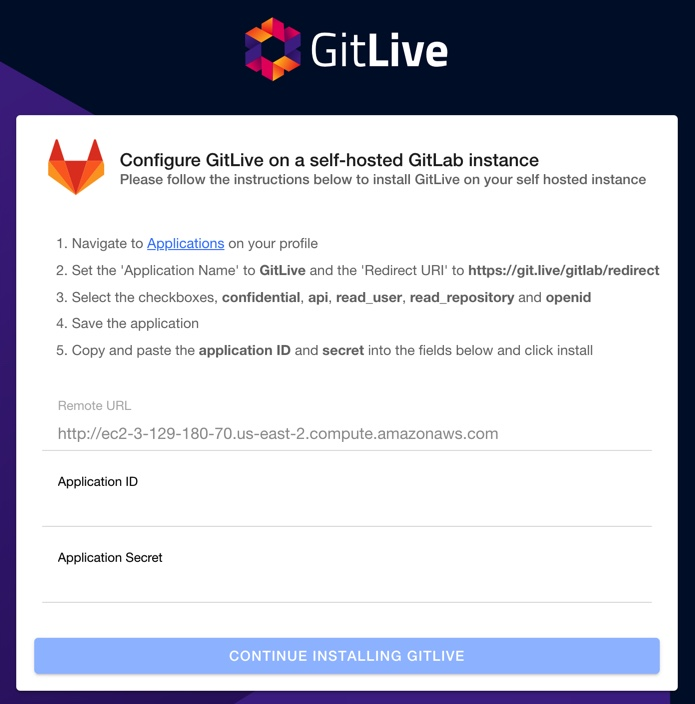
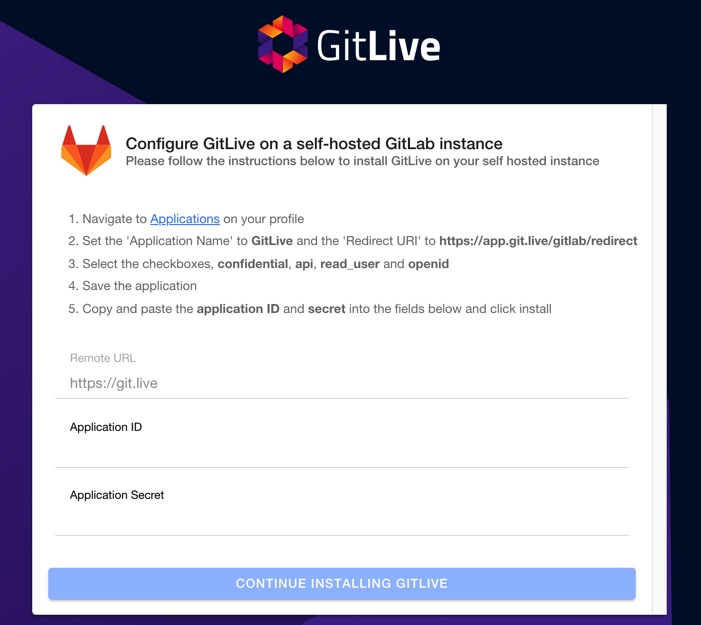
New self hosted adding custom urls section

diff --git a/_sections/self-hosted-admin-android-studio.md b/_sections/self-hosted-admin-android-studio.md
@@ -50,6 +50,13 @@ Finally, you will see a screen showing you that GitLive has been installed succe
 
 ![Successful Self Hosted Installation](/uploads/gsh-successful.jpg "Successful Self Hosted Installation"){:class="screenshot"}
 
+### Adding a Custom URL
+You can also add a custom URL that is accessible from the internet. If your remote URL is not accessible from the internet via HTTP or HTTPS, this custom URL will replace the remote URL with another one, so that our server can access the API.
+
+There will be a prompt in the footer of the GitLive pane that says "Specify self-hosted GitLab instance URL", this will take you to a webpage where you can add a different URL for all the requests done by the server.
+
+![Self hosted form](/uploads/gsh-form-empty-custom-url.jpg "Self hosted form"){:class="screenshot"}
+
 ### You're all set!
 
 * You can now have your team members install the plugin and authenticate. See the  [setting up as a team member section](/docs/teammember){:class="internal-link"}.

diff --git a/_sections/self-hosted-admin-jetbrains.md b/_sections/self-hosted-admin-jetbrains.md
@@ -50,6 +50,13 @@ Finally, you will see a screen showing you that GitLive has been installed succe
 
 ![Successful Self Hosted Installation](/uploads/gsh-successful.jpg "Successful Self Hosted Installation"){:class="screenshot"}
 
+### Adding a Custom URL
+You can also add a custom URL that is accessible from the internet. If your remote URL is not accessible from the internet via HTTP or HTTPS, this custom URL will replace the remote URL with another one, so that our server can access the API.
+
+There will be a prompt in the footer of the GitLive pane that says "Specify self-hosted GitLab instance URL", this will take you to a webpage where you can add a different URL for all the requests done by the server.
+
+![Self hosted form](/uploads/gsh-form-empty-custom-url.jpg "Self hosted form"){:class="screenshot"}
+
 ### You're all set!
 
 * You can now have your team members install the plugin and authenticate. See the  [setting up as a team member section](/docs/teammember){:class="internal-link"}.

diff --git a/_sections/self-hosted-admin-vscode.md b/_sections/self-hosted-admin-vscode.md
@@ -50,6 +50,13 @@ Finally, you will see a screen showing you that GitLive has been installed succe
 
 ![Successful Self Hosted Installation](/uploads/gsh-successful.jpg "Successful Self Hosted Installation"){:class="screenshot"}
 
+### Adding a Custom URL
+You can also add a custom URL that is accessible from the internet. If your remote URL is not accessible from the internet via HTTP or HTTPS, this custom URL will replace the remote URL with another one, so that our server can access the API.
+
+There will be a prompt in the footer of the GitLive pane that says "Specify self-hosted GitLab instance URL", this will take you to a webpage where you can add a different URL for all the requests done by the server.
+
+![Self hosted form](/uploads/gsh-form-empty-custom-url.jpg "Self hosted form"){:class="screenshot"}
+
 ### You're all set!
 
 * You can now have your team members install the plugin and authenticate. See the  [setting up as a team member section](/docs/teammember){:class="internal-link"}.
